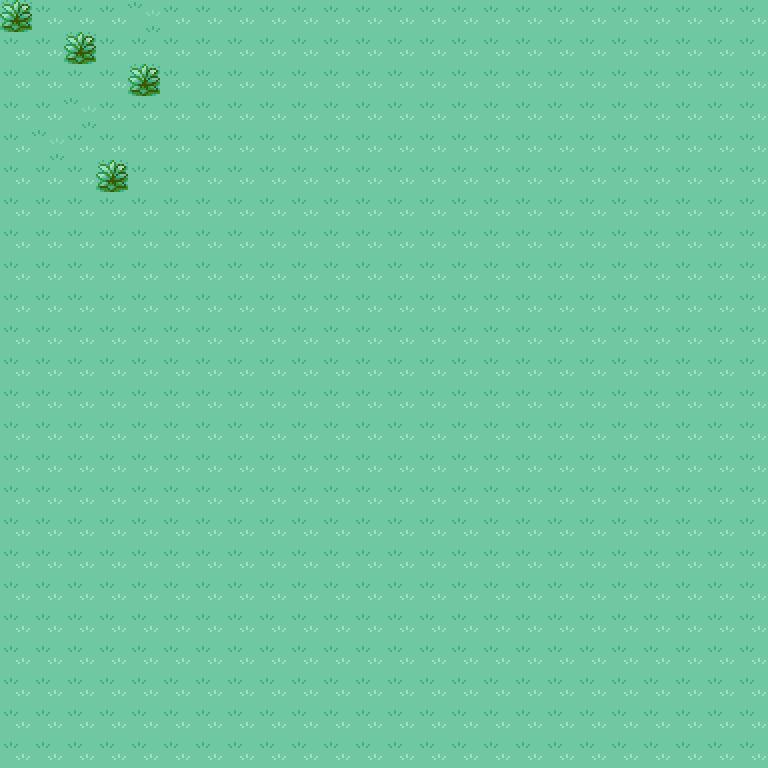
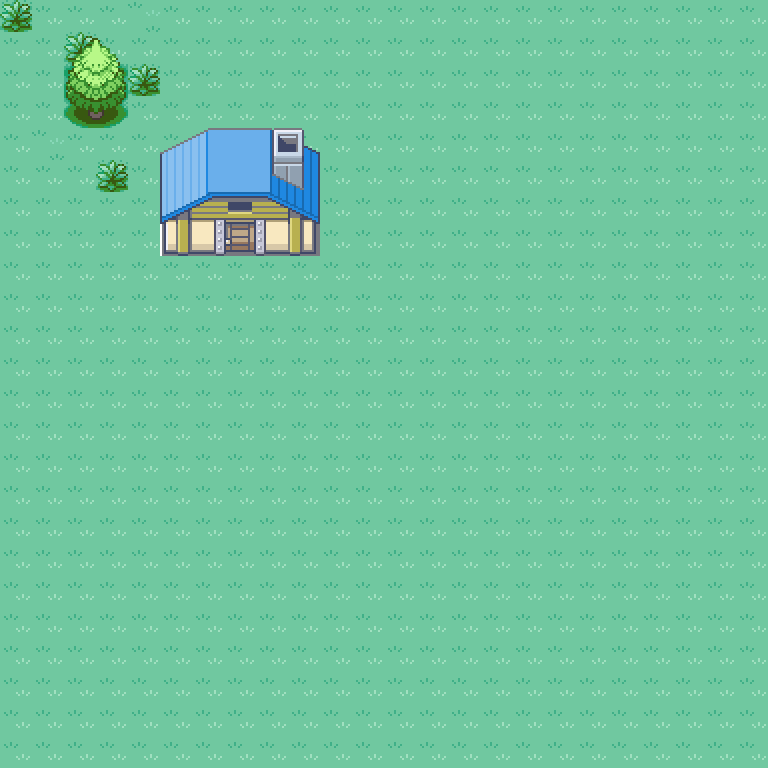
World settings

Changed region(s): [[0.1875, 0.1562, 0.4375, 0.3438], [0.0625, 0.0625, 0.1875, 0.1875]]

diff --git a/src/components/overworld/Overworld.js b/src/components/overworld/Overworld.js
@@ -1,8 +1,13 @@
 import React from 'react';
 
-import mapImg from "../../assets/map.png"
-import playerImg from "../../assets/player.png"
-import shadowImg from "../../assets/shadow.png"
+import GameObject from "../objects/GameObject";
+
+import mapImg from "../../assets/map.png";
+import playerImg from "../../assets/player.png";
+import momImg from "../../assets/mother.png";
+
+import OverworldMap from './map/OverworldMap';
+import DirectionInputs from '../player_inputs/DirectionInputs';
 
 export default class Overworld extends React.Component { 
     constructor(config) {
@@ -11,50 +16,42 @@ export default class Overworld extends React.Component {
         this.element = config.element;
         this.canvas = this.element.querySelector(".game-canvas");
         this.ctx = this.canvas.getContext("2d");
+        this.map = null;
+    }
+
+    startGameLoop() {
+        const step = () => {
+
+            // clear
+            this.ctx.clearRect(0, 0, this.canvas.width, this.canvas.height)
+            
+            // draw lower layer
+            this.map.drawLowerImage(this.ctx);
+            // draw game objects
+            Object.values(this.map.gameObjects).forEach(obj => {
+                obj.update({
+                    arrow: this.directionInput.direction,
+                })
+                obj.sprite.draw(this.ctx);
+            });
+            // draw upper layer
+            this.map.drawUpperImage(this.ctx);
+
+            requestAnimationFrame(() => {
+                step();
+            })
+        }
+        step();
     }
 
     init() {
-        // map
-        const image = new Image();
-        image.onload = () => {
-            this.ctx.drawImage(image, 0,0);
-        };
-        image.src = mapImg;
+        this.map = new OverworldMap(
+            window.OverworldMaps.DemoRoom,
+        )
+        this.directionInput = new DirectionInputs();
+        this.directionInput.init();
 
-        // player
-        const x = 2;
-        const y = 1;
 
-        const shadow = new Image();
-        shadow.onload = () => {
-            this.ctx.drawImage(
-                shadow,
-                0, // left cut
-                0, // top cut
-                52, // width cut
-                16, // height cut
-                x * 32, 
-                y * 32 + 16,
-                32, // width draw
-                16 // height draw
-            );
-        }
-        shadow.src= shadowImg
-
-        const player = new Image();
-        player.onload = () => {
-            this.ctx.drawImage(
-                player,
-                0, // left cut
-                0, // top cut
-                32, // width cut
-                48, // height cut
-                x * 32, 
-                y * 32 - 16,
-                32, // width draw
-                48 // height draw
-            );
-        }
-        player.src = playerImg;
-    }
-}
+        this.startGameLoop();
+    };
+};

diff --git a/src/components/overworld/map/OverworldMap.js b/src/components/overworld/map/OverworldMap.js
@@ -1,0 +1,65 @@
+import React from 'react';
+
+import GameObject from "../../objects/GameObject";
+
+import lowerImg from "../../../assets/map.png";
+import upperImg from "../../../assets/mapupper.png";
+
+import momImg from "../../../assets/mother.png";
+import { withGrid } from '../../../Utils';
+import Person from '../../objects/Person';
+
+export default class OverworldMap extends React.Component { 
+    constructor(config) {
+        super(config);
+        
+        this.gameObjects = config.gameObjects;
+
+        this.lowerImage = new Image();
+        this.lowerImage.src = config.lowerSrc;
+
+        this.upperImage = new Image();
+        this.upperImage.src = config.upperSrc;
+    }
+
+    drawLowerImage(ctx) {
+        ctx.drawImage(this.lowerImage, 0, 0);
+    }
+    drawUpperImage(ctx) {
+        ctx.drawImage(this.upperImage, 0, 0);
+    }
+};
+
+window.OverworldMaps = {
+    DemoRoom: {
+        lowerSrc: lowerImg,
+        upperSrc: upperImg,
+        gameObjects: {
+            player: new Person({
+                isPlayerControlled: true,
+                x: withGrid(5),
+                y: withGrid(6)
+            }),
+            npcMom: new Person({
+                x: withGrid(3),
+                y: withGrid(3),
+                src: momImg
+            })
+        }
+    },
+    MomHouse: {
+        lowerSrc: lowerImg,
+        upperSrc: upperImg,
+        gameObjects: {
+            player: new Person({
+                x: withGrid(5),
+                y: withGrid(5),
+            }),
+            npcMom: new Person({
+                x: withGrid(3),
+                y: withGrid(3),
+                src: momImg
+            }),
+        }
+    },
+}

diff --git a/src/components/objects/Sprite.js b/src/components/objects/Sprite.js
@@ -1,0 +1,61 @@
+import React from 'react';
+
+import shadowImg from "../../assets/shadow.png";
+
+export default class Sprite extends React.Component { 
+    constructor(config) {
+        super(config);
+
+        // set up the img
+        this.image = new Image();
+        this.image.src = config.src;
+        this.image.onload = () => {
+            this.isLoaded = true;
+        }
+
+        // shadow
+        this.shadow = new Image();
+        this.useShadow = true;
+        if (this.useShadow) {
+            this.shadow.src = shadowImg;
+        }
+        this.shadow.onload = () => {
+            this.isShadowLoaded = true;
+        }
+
+        // configure animation
+        this.animations = config.animations || {
+            idleDown: [
+                [0,0]
+            ],
+            // walkDown: [
+            //     [0,0], [1,0], [2,0], [3,0]
+            // ],
+        };
+        this.currentAnimation = config.currentAnimation || "idleDown";
+        this.currentAnimationFrame = 0;
+
+        // ref game object
+        this.gameObject = config.gameObject;
+    };
+
+    draw(ctx) {
+        const x = this.gameObject.x;
+        const y = this.gameObject.y - 16;
+
+        this.isShadowLoaded && ctx.drawImage(this.shadow, x, y);
+
+        this.isLoaded && ctx.drawImage(
+            this.image,
+            0,
+            0,
+            32, 
+            48,
+            x,
+            y,
+            32,
+            48
+        )
+    };
+    
+};

diff --git a/src/components/player_inputs/DirectionInputs.js b/src/components/player_inputs/DirectionInputs.js
@@ -1,0 +1,42 @@
+import React from 'react';
+
+export default class DirectionInputs extends React.Component { 
+    constructor(config) {
+        super(config);
+
+        this.heldDirections = [];
+
+        this.map = {
+            "ArrowUp" : "up",
+            "KeyZ" : "up",
+            "ArrowDown" : "down",
+            "KeyS" : "down",
+            "ArrowLeft" : "left",
+            "KeyQ" : "left",
+            "ArrowRight" : "right",
+            "KeyD" : "right",
+        }
+    };
+
+    get direction() {
+        return this.heldDirections[0];
+    }
+
+    init() {
+        document.addEventListener("keydown", (e) => {
+            const dir = this.map[e.code];
+            if (dir && this.heldDirections.indexOf(dir) === -1) {
+                this.heldDirections.unshift(dir)
+                console.log(this.heldDirections);
+            }
+        });
+        document.addEventListener("keyup" , (e) => {
+            const dir = this.map[e.code];
+            const index = this.heldDirections.indexOf(dir);
+            if (index > -1) {
+                this.heldDirections.splice(index, 1);
+                console.log(this.heldDirections);
+            }
+        });
+    };
+};

diff --git a/src/components/objects/Person.js b/src/components/objects/Person.js
@@ -1,0 +1,34 @@
+import GameObject from './GameObject';
+
+export default class Person extends GameObject { 
+    constructor(config) {
+        super(config);
+
+        this.movingProgressRemaining = 0;
+        this.isPlayerControlled = config.isPlayerControlled || false;
+
+        this.directionUpdate = {
+            "up": ["y", -1],
+            "down": ["y", 1],
+            "left": ["x", -1],
+            "right": ["x", 1],
+        }
+    };
+
+    update(state) {
+        this.updatePosition();
+
+        if (this.isPlayerControlled && this.movingProgressRemaining === 0 && state.arrow) {
+            this.direction = state.arrow;
+            this.movingProgressRemaining = 32;
+        }
+    }
+
+    updatePosition() {
+        if (this.movingProgressRemaining > 0) {
+            const [property, change] = this.directionUpdate[this.direction];
+            this[property] += change;
+            this.movingProgressRemaining -= 1;
+        }
+    }
+};

diff --git a/src/components/objects/GameObject.js b/src/components/objects/GameObject.js
@@ -1,0 +1,23 @@
+import React from 'react';
+
+import Sprite from "./Sprite";
+import playerImg from "../../assets/player.png";
+
+export default class GameObject extends React.Component { 
+    constructor(config) {
+        super(config);
+        this.x = config.x || 0;
+        this.y = config.y || 0;
+        this.direction = config.direction || "down";
+        this.sprite = new Sprite({
+            gameObject: this,
+            src: config.src || playerImg,
+        });
+
+        this.id = null;
+    }
+
+    update() {
+
+    }
+};

diff --git a/src/components/main/Init.js b/src/components/main/Init.js
@@ -1,4 +1,4 @@
-import Overworld from "../overworld/Overworld"
+import Overworld from "../overworld/Overworld";
 
 export default function init() {
    const overworld = new Overworld({

diff --git a/src/components/main/Main.js b/src/components/main/Main.js
@@ -1,4 +1,5 @@
 import { useEffect } from 'react';
+
 import init from "./Init"
 
 const Main = () => {

diff --git a/src/Utils.js b/src/Utils.js
@@ -1,0 +1,3 @@
+export const withGrid = (n) =>  {
+        return n * 32;
+}
